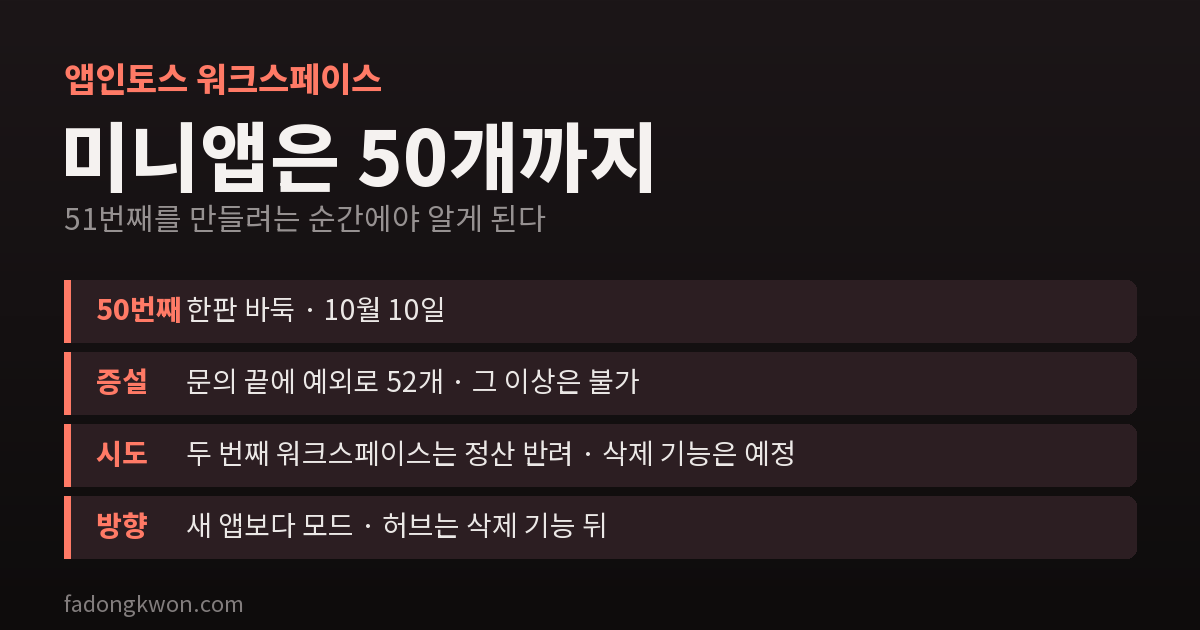
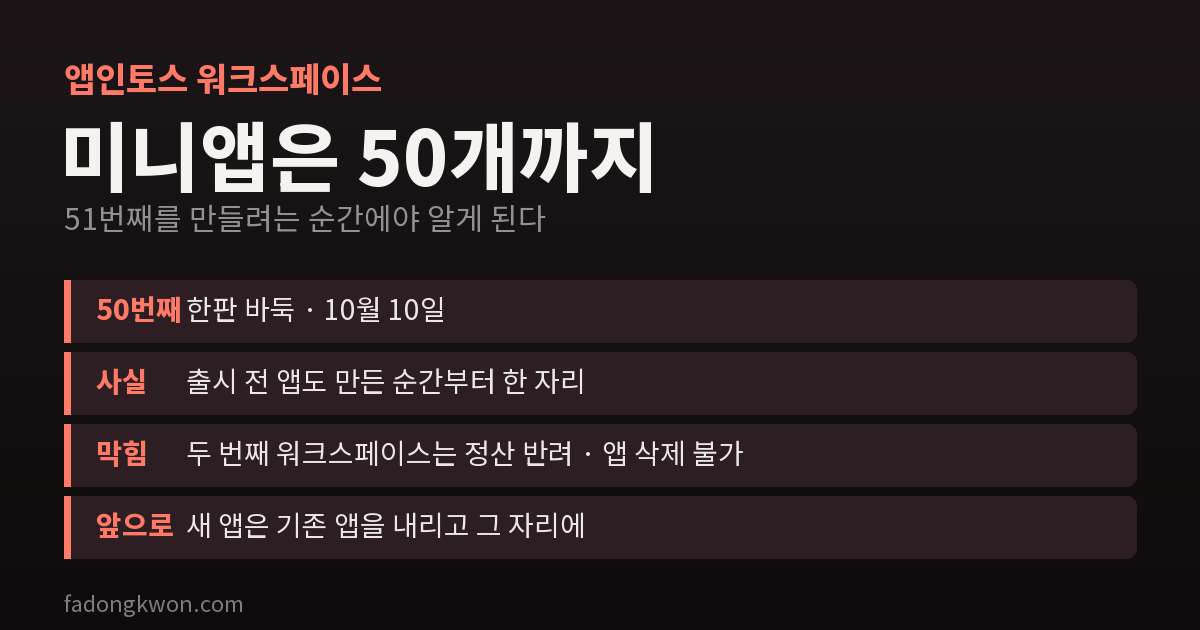
10/20 워크스페이스 한도 글: 증설 내용 빼고 '50개가 최대·신작은 기존 앱을 내리고 넣기' 중심으로 재작성(ko/en·커버)

diff --git a/_posts/2026-10-20-toss-workspace-50-limit.md b/_posts/2026-10-20-toss-workspace-50-limit.md
@@ -1,6 +1,6 @@
 ---
-title: 앱인토스 워크스페이스에는 미니앱이 50개까지만 들어갑니다 — 51번째에서 막히고 52개로 늘기까지
-description: 10월 10일, 한판 바둑을 만들자 앱인토스 워크스페이스의 미니앱이 50개가 됐고, 다음 앱부터는 "워크스페이스당 미니앱은 최대 50개"로 막혔습니다. 두 번째 워크스페이스는 사업자 중복으로 정산 등록이 반려됐고, 문의 끝에 예외로 52개까지 늘었지만 그 이상은 어렵다는 답을 받았습니다. 두 자리를 어디에 썼는지, 앱 삭제 기능이 나오기 전까지 어떻게 할지, 10월 22일 노출 정책과 겹쳐 보이는 것을 정리했습니다
+title: 앱인토스 워크스페이스에는 미니앱이 50개까지만 들어갑니다 — 51번째에서 막힌 이야기
+description: 10월 10일, 한판 바둑을 만들자 앱인토스 워크스페이스의 미니앱이 50개가 됐고, 다음 앱부터는 "워크스페이스당 미니앱은 최대 50개"로 막혔습니다. 같은 사업자로 만든 두 번째 워크스페이스는 정산 등록이 반려됐고, 지금은 앱을 지울 방법도 없습니다. 50개가 최대라는 걸 전제로 앞으로 신작을 어떻게 낼지, 그리고 10월 22일 노출 정책과 겹쳐 보이는 것을 정리했습니다
 date: 2026-10-20 09:00:00 +0900
 categories: [Devlog, Platform]
 tags: [앱인토스, 토스, 미니앱, 1인개발자, 개발일지]
@@ -12,7 +12,7 @@ image:
 
 8월에 앱인토스에 첫 미니앱을 낸 뒤로 두 달 동안 계속 앱을 늘려 왔습니다. 미니게임, 운세, 퀴즈, 로또 변형, 그리고 이번 달의 레트로 5종과 보드게임 9종까지요.
 
-10월 10일, 신작 3종 중 [한판 바둑](/ko/posts/mini-go/)을 토스 콘솔에 만들었습니다. 이어서 당구와 미니골프를 만들려는데 이런 문구가 떴습니다.
+10월 10일, 신작 3종 중 [한판 바둑](/ko/posts/mini-go/)을 토스 콘솔에 만들었습니다. 이어서 다음 신작을 만들려는데 이런 문구가 떴습니다.
 
 > 워크스페이스당 미니앱은 최대 50개
 
@@ -20,55 +20,39 @@ image:
 
 ## 어떻게 알게 됐나
 
-사실 처음 막힌 이유는 따로 있었습니다. 당구의 `billiards`, 미니골프의 `mini-golf`는 앱 주소로 쓰는 이름(appName)인데, **토스 전체에서 이미 다른 누군가가 쓰고 있었습니다.** 그래서 `billiards-classic`, `mini-golf-game`으로 바꿔 다시 만들려고 했고, 그때 50개 한도 문구가 나왔습니다.
+사실 처음 막힌 이유는 따로 있었습니다. 다음 신작 두 개의 앱 주소용 이름(appName)을 **토스 전체에서 이미 다른 누군가가 쓰고 있었습니다.** 그래서 이름을 바꿔 다시 만들려고 했고, 그때 50개 한도 문구가 나왔습니다.
 
 몰랐던 이유는 단순합니다. **한도를 미리 알려 주는 곳이 없었습니다.** 앱을 만들 때마다 개수가 표시되지도 않고, 49번째를 만들 때 경고가 뜨지도 않습니다. 51번째를 만들려는 순간에야 알게 됩니다.
 
 그리고 이 50개에는 **아직 출시하지 않은 앱도 들어갑니다.** 콘솔에서 앱을 '만든' 순간 한 자리를 차지합니다. 출시 전에 이름을 맡아 두려고 미리 만들어 둔 앱이 있다면 그것도 셉니다.
 
-## 자리가 없어서 생긴 일
+## 다른 길은 없었다
 
-당장 토스에 낼 수 없게 된 게임은 세 개였습니다.
+**두 번째 워크스페이스.** 워크스페이스를 하나 더 만들어 거기에 새 앱을 넣는 방법을 해 봤습니다. 그런데 광고 수익을 받으려면 워크스페이스마다 정산 정보(사업자)를 등록해야 하고, **같은 사업자로 두 번째 워크스페이스의 정산을 등록하자 "사업자 정보 중복"으로 반려됐습니다.** 수익을 받을 수 없는 워크스페이스에 앱을 넣을 수는 없어서 이 방법은 접었습니다.
 
-- **당구** (8볼·9볼)
-- **미니골프**
-- **[성 무너뜨리기](/ko/posts/castle-topple/)** — 물리 엔진으로 만든 대포 퍼즐
+**앱 지우기.** 운영을 끝낸 앱을 지우면 자리가 빌까 싶었는데, **지금은 미니앱을 삭제하는 기능이 없습니다.** 삭제 기능은 앞으로 제공될 예정이라고 안내받았습니다.
 
-세 게임 모두 **구글 플레이에만 먼저 냈고**, 10월 12일에 출시됐습니다. 토스판 코드와 앱 껍데기(래퍼)는 만들어 두었습니다.
+결국 **50개가 최대**입니다. 그 사이 만든 신작 중 일부는 구글 플레이에만 먼저 냈습니다.
 
-## 시도한 것 두 가지
+## 그래서 앞으로는 '바꿔 넣기'다
 
-**1. 두 번째 워크스페이스.** 워크스페이스를 하나 더 만들어 거기에 새 앱을 넣는 방법을 먼저 해 봤습니다. 그런데 광고 수익을 받으려면 워크스페이스마다 정산 정보(사업자)를 등록해야 하고, **같은 사업자로 두 번째 워크스페이스의 정산을 등록하자 "사업자 정보 중복"으로 반려됐습니다.** 수익을 받을 수 없는 워크스페이스에 앱을 넣을 수는 없어서 이 방법은 접었습니다.
+50개가 꽉 찬 지금, 앞으로 토스에 새 앱을 내려면 **기존 앱 하나를 내리고 그 자리에 넣는** 수밖에 없습니다. 그래서 신작을 대하는 방식을 바꿨습니다.
 
-**2. 한도 증설 문의.** 앱인토스 채널톡으로 세 가지를 물었습니다. 한도를 100개 이상으로 늘릴 수 있는지, 한 사업자로 워크스페이스를 둘 이상 운영할 방법이 있는지, 운영을 끝낸 앱을 지우면 한도에서 빠지는지입니다.
-
-기다린 끝에 답이 왔습니다.
-
-- **예외적으로 한도를 52개로 늘려 주었습니다.**
-- **앱 삭제 기능은 앞으로 제공될 예정**이라고 했습니다. 지금은 앱을 지울 방법이 없습니다.
-
-허브 앱 계획을 설명하고 60개까지 가능한지 한 번 더 물었지만, 이번 증액도 예외적인 처리였기 때문에 **추가 증액은 어렵다**는 답을 받았습니다.
-
-## 두 자리를 어디에 썼나
-
-늘어난 두 자리는 **파괴왕 공성전**(성 무너뜨리기의 새 이름)과 **미니골프**에 썼습니다. 둘 다 10월 14일 토스에 출시했습니다. 당구는 지금도 플레이에만 있습니다. 그 뒤 새로 만든 보드게임 5종도 토스는 보류 상태입니다.
-
-그리고 이번 일로 만드는 방식을 바꿨습니다. [반응속도 챌린지](/ko/posts/reaction-modes-retrospective/)에는 새 앱을 내는 대신 **기존 앱에 모드 8가지를 넣었습니다.** 자리가 없으니 앱을 늘리는 대신 앱을 두껍게 만드는 쪽으로 간 것입니다.
+- **새 앱보다 모드.** [반응속도 챌린지](/ko/posts/reaction-modes-retrospective/)에는 새 앱을 내는 대신 기존 앱에 모드 8가지를 넣었습니다. 앱을 늘리는 대신 앱을 두껍게 만드는 쪽입니다.
+- **새 앱은 내릴 앱과 짝을 지어.** 신작 하나를 토스에 내려면, 지표가 가장 낮은 앱 하나를 먼저 정해 둡니다. 테마만 다른 로또 변형 앱들이 첫 정리 대상입니다.
+- **허브 앱.** 비슷한 게임을 하나로 묶는 앱입니다. 운세·퍼즐·오락실·보드게임·퀴즈·파티게임처럼 테마마다 하나씩 두고, 지금의 개별 앱들은 그 안의 종목이 됩니다. 허브가 들어갈 자리도 기존 앱을 정리해서 만듭니다.
 
 ## 한도보다 먼저 생각할 것
 
 한도에 막힌 것과 별개로, 이 일은 마침 토스의 노출 정책이 바뀌는 시점과 겹쳤습니다. [10월 22일부터 토스 노출은 앱 개수가 아니라 앱의 지표로 나뉩니다](/ko/posts/apps-in-toss-exposure-policy/). 9월 웨비나에서는 "테마만 바꿔 대량으로 내는 앱"을 상시 제재 대상으로 꼽았고, 워크스페이스당 출시 수 제한도 언급됐습니다.
 
-돌아보면 50개 한도는 우연한 숫자가 아닐 겁니다. 토스는 **앱을 많이 내는 것보다 앱 하나를 잘 키우는 것**을 바라고 있고, 한도도 정책도 같은 방향을 가리킵니다.
-
-남은 일은 비슷한 게임을 묶는 **허브 앱**입니다. 운세·퍼즐·오락실·보드게임·퀴즈·파티게임처럼 테마마다 하나씩 두고, 지금의 개별 앱들은 그 안의 종목이 되는 구조입니다. 자리가 없으니 허브는 **앱 삭제 기능이 나온 뒤**, 활성도가 낮은 앱을 정리한 자리에 들어갑니다. 테마만 다른 로또 변형 앱들이 먼저 정리 대상입니다.
+돌아보면 50개 한도는 우연한 숫자가 아닐 겁니다. 토스는 **앱을 많이 내는 것보다 앱 하나를 잘 키우는 것**을 바라고 있고, 한도도 정책도 같은 방향을 가리킵니다. 50개 안에서 바꿔 넣는 방식은 결국 그 방향을 따르는 일이기도 합니다.
 
 ## 정리
 
 - 앱인토스 워크스페이스에는 **미니앱이 50개까지** 들어갑니다. 미리 알려 주지 않고, 51번째를 만들 때 막힙니다.
 - 출시 전 앱도 **만든 순간부터** 한 자리를 차지합니다. 그리고 지금은 **앱을 지울 수 없습니다.**
 - 같은 사업자로 두 번째 워크스페이스를 만들어도 **정산 등록이 반려**됩니다.
-- 문의하면 예외로 조금 늘려 줄 수는 있지만, 우리 경우는 **52개가 끝**이었습니다.
-- 앱이 30개를 넘었다면 **남은 자리부터 세어 두세요.** 그리고 새 앱보다 **기존 앱에 모드를 더하는 쪽**을 먼저 생각해 보세요. 노출 정책도 같은 방향입니다.
+- 앱이 30개를 넘었다면 **남은 자리부터 세어 두세요.** 꽉 차면 새 앱은 **기존 앱을 내리고 넣는 것**이 됩니다. 그 전에 **기존 앱에 모드를 더하는 쪽**을 먼저 생각해 보세요.
 
-앱 삭제 기능이 나오면, 어떤 앱을 정리하고 그 자리에 어떤 허브를 넣었는지 다시 적겠습니다.
+앱 삭제 기능이 나오면, 어떤 앱을 내리고 그 자리에 무엇을 넣었는지 다시 적겠습니다.

diff --git a/_en_posts/2026-10-20-toss-workspace-50-limit.md b/_en_posts/2026-10-20-toss-workspace-50-limit.md
@@ -1,6 +1,6 @@
 ---
-title: An Apps in Toss Workspace Holds Only 50 Mini Apps — Stuck at Number 51, Then Raised to 52
-description: On October 10, creating Quick Go brought my Apps in Toss workspace to 50 mini apps, and the next one was blocked with "a workspace can have at most 50 mini apps." A second workspace had its settlement registration rejected as a duplicate business, and after contacting support the limit was raised to 52 as an exception, with no more beyond that. Here is where the two slots went, what to do until app deletion arrives, and how it lines up with the October 22 exposure policy
+title: An Apps in Toss Workspace Holds Only 50 Mini Apps — Getting Stuck at Number 51
+description: On October 10, creating Quick Go brought my Apps in Toss workspace to 50 mini apps, and the next one was blocked with "a workspace can have at most 50 mini apps." A second workspace under the same business had its settlement registration rejected, and there is currently no way to delete apps. Here is how I plan to release new games with 50 as the hard maximum, and how it lines up with the October 22 exposure policy
 image:
   path: /assets/img/20261020_toss-workspace-50-limit/cover.png
   alt: Apps in Toss workspace limit of 50 mini apps
@@ -13,7 +13,7 @@ tags: [apps in toss, toss, mini app, solo developer, dev log]
 
 Since my first mini app on Apps in Toss in August, I kept adding apps for two months: minigames, fortune apps, quizzes, lotto variants, and this month the five retro games and nine board games.
 
-On October 10 I created [Quick Go](/posts/mini-go/), one of three new games, in the Toss console. When I went on to create Billiards and Mini Golf, this message appeared:
+On October 10 I created [Quick Go](/posts/mini-go/), one of three new games, in the Toss console. When I went on to create the next new game, this message appeared:
 
 > A workspace can have at most 50 mini apps.
 
@@ -21,55 +21,39 @@ Quick Go was **number 50**.
 
 ## How I found out
 
-The first block was actually something else. `billiards` for Billiards and `mini-golf` for Mini Golf are the names used in app addresses (appName), and **someone else on Toss was already using them.** So I tried again as `billiards-classic` and `mini-golf-game`, and that is when the 50-app message showed up.
+The first block was actually something else. The app address names (appName) I wanted for the next two games **were already taken by someone else on Toss.** So I tried again with different names, and that is when the 50-app message showed up.
 
 The reason I did not know is simple: **nothing warns you about the limit.** The console does not show a count when you create an app, and nothing pops up at number 49. You find out the moment you try to create number 51.
 
 And those 50 **include apps that have not launched yet.** An app takes a slot the moment it is created in the console. If you created apps early to reserve their names, those count too.
 
-## What happened for lack of slots
+## There was no other way
 
-Three games could not go to Toss right away:
+**A second workspace.** I tried creating another workspace to hold new apps. But to receive ad revenue, each workspace needs its own settlement (business) information, and **registering settlement for a second workspace under the same business was rejected as "duplicate business information."** Putting apps in a workspace that cannot receive revenue made no sense, so I dropped that route.
 
-- **Billiards** (8-ball and 9-ball)
-- **Mini Golf**
-- **[Castle Topple](/posts/castle-topple/)** — a cannon puzzle built on a physics engine
+**Deleting apps.** I wondered whether deleting a retired app would free a slot, but **there is currently no way to delete a mini app.** I was told a deletion feature is planned.
 
-All three **went out on Google Play first** and launched on October 12. The Toss code and app wrappers were ready.
+So **50 is the maximum.** Some of the new games I made in the meantime went out on Google Play first.
 
-## Two things I tried
+## From here on, it is swapping
 
-**1. A second workspace.** I first tried creating another workspace to hold new apps. But to receive ad revenue, each workspace needs its own settlement (business) information, and **registering settlement for a second workspace under the same business was rejected as "duplicate business information."** Putting apps in a workspace that cannot receive revenue made no sense, so I dropped that route.
+With all 50 slots filled, the only way to put a new app on Toss is to **take down an existing app and put the new one in its place**. So I changed how I approach new games.
 
-**2. Asking for a higher limit.** Through the Apps in Toss support chat I asked three things: whether the limit could be raised to 100 or more, whether one business can run more than one workspace, and whether deleting a retired app frees its slot.
-
-After some waiting, the answer came:
-
-- **As an exception, the limit was raised to 52.**
-- **An app deletion feature is planned.** For now there is no way to delete an app.
-
-I explained my hub app plan and asked once more whether 60 was possible, but since this increase was already an exception, **a further increase was not possible**.
-
-## Where the two slots went
-
-The two new slots went to **Siege King** (Castle Topple's new Korean name) and **Mini Golf**, both launched on Toss on October 14. Billiards is still Play-only, and the five board games I made after that are on hold for Toss too.
-
-This also changed how I build. For [Reaction Challenge](/posts/reaction-modes-retrospective/), instead of launching new apps, **I added eight modes to the existing app.** With no room for more apps, the direction became making each app deeper rather than adding apps.
+- **Modes before apps.** For [Reaction Challenge](/posts/reaction-modes-retrospective/), instead of launching new apps I added eight modes to the existing app — making an app deeper rather than adding apps.
+- **Pair each new app with one to retire.** Before a new game goes to Toss, I pick the app with the weakest metrics to take down. The lotto variants that differ only in theme are first in line.
+- **Hub apps.** Apps that bundle similar games, one per theme, such as fortune, puzzle, arcade, board games, quizzes and party games, with today's individual apps becoming modes inside them. Their slots will also come from cleaning up existing apps.
 
 ## What matters more than the limit
 
 Apart from hitting the limit, this coincided with a change in Toss's exposure policy. [From October 22, Toss exposure is split by app metrics, not app count](/posts/apps-in-toss-exposure-policy/). The September webinar named "apps mass-produced with only the theme changed" as subject to ongoing sanctions, and a cap on launches per workspace was mentioned as well.
 
-Looking back, 50 is probably not an arbitrary number. Toss wants **one app grown well rather than many apps launched**, and the limit and the policy point the same way.
-
-What remains is **hub apps** that bundle similar games: one per theme, such as fortune, puzzle, arcade, board games, quizzes and party games, with today's individual apps becoming modes inside them. With no free slots, the hubs will come **after app deletion arrives**, taking the places of low-activity apps that get cleaned up — starting with the lotto variants that differ only in theme.
+Looking back, 50 is probably not an arbitrary number. Toss wants **one app grown well rather than many apps launched**, and the limit and the policy point the same way. Swapping apps within 50 slots is, in the end, a way of following that direction.
 
 ## Summary
 
 - An Apps in Toss workspace holds **up to 50 mini apps**. There is no advance warning; you are blocked when creating number 51.
 - Unlaunched apps take a slot **from the moment they are created**, and right now **apps cannot be deleted.**
 - A second workspace under the same business gets its **settlement registration rejected**.
-- Support may raise the limit a little as an exception, but in my case **52 was the end**.
-- If you are past 30 apps, **count your remaining slots now** — and before a new app, consider **adding modes to an existing one**. The exposure policy points the same way.
+- If you are past 30 apps, **count your remaining slots now**. Once full, a new app means **taking down an existing one** — and before that, consider **adding modes to an existing app**.
 
-When app deletion arrives, I will write about which apps I cleaned up and which hubs took their place.
+When app deletion arrives, I will write about which apps I took down and what went in their place.
